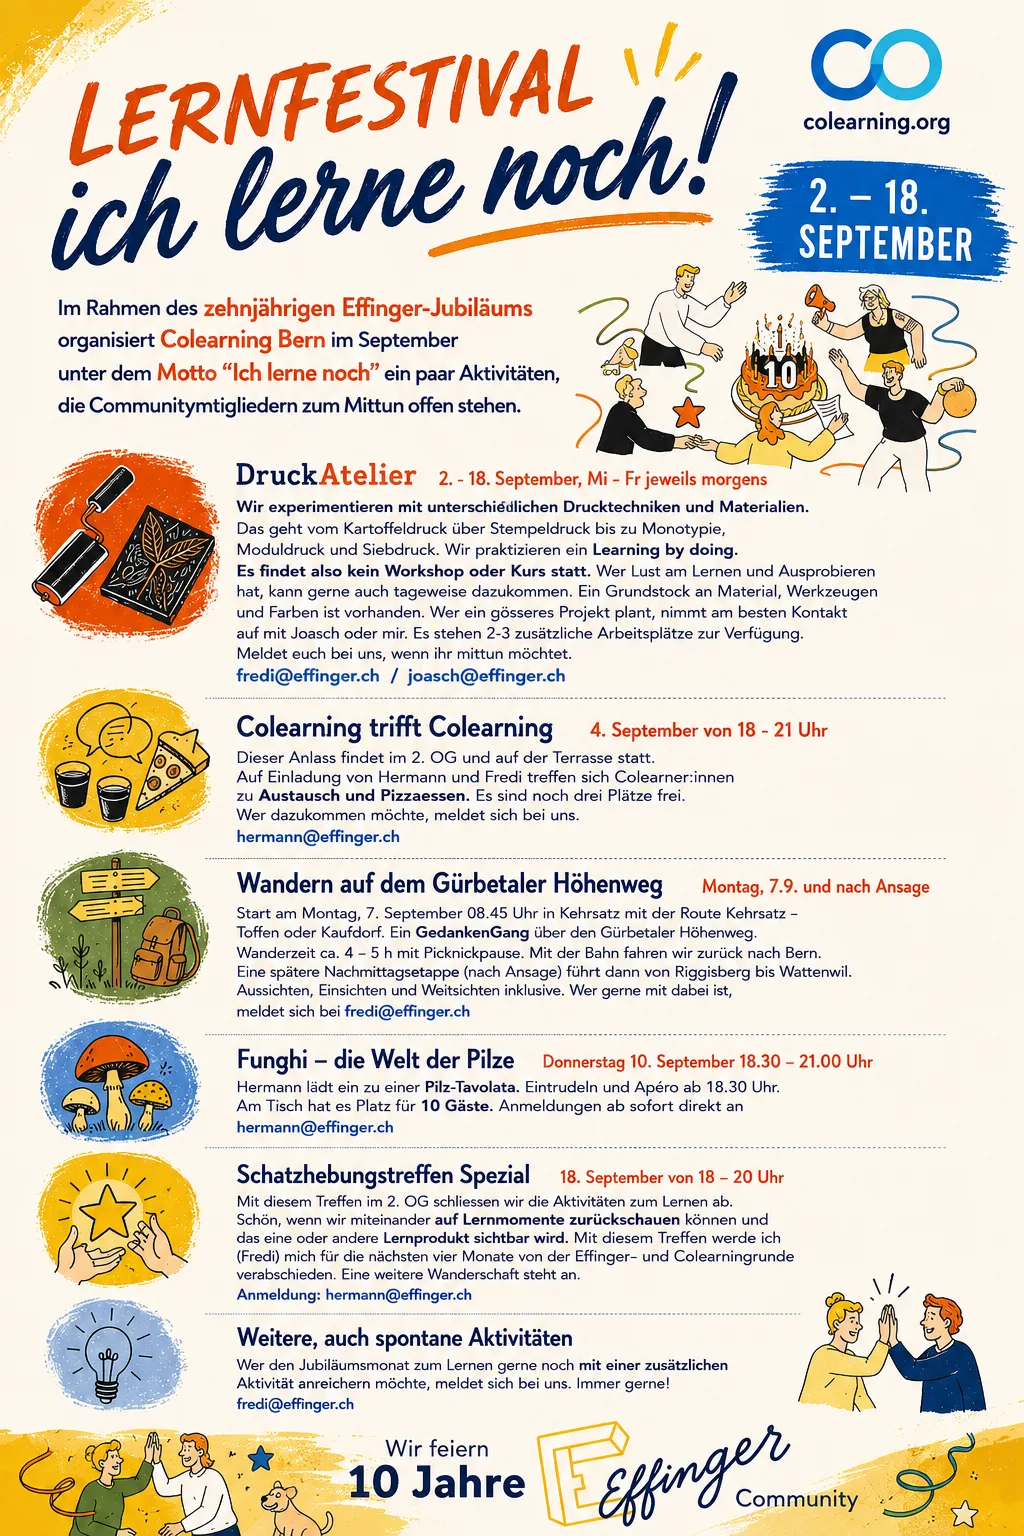
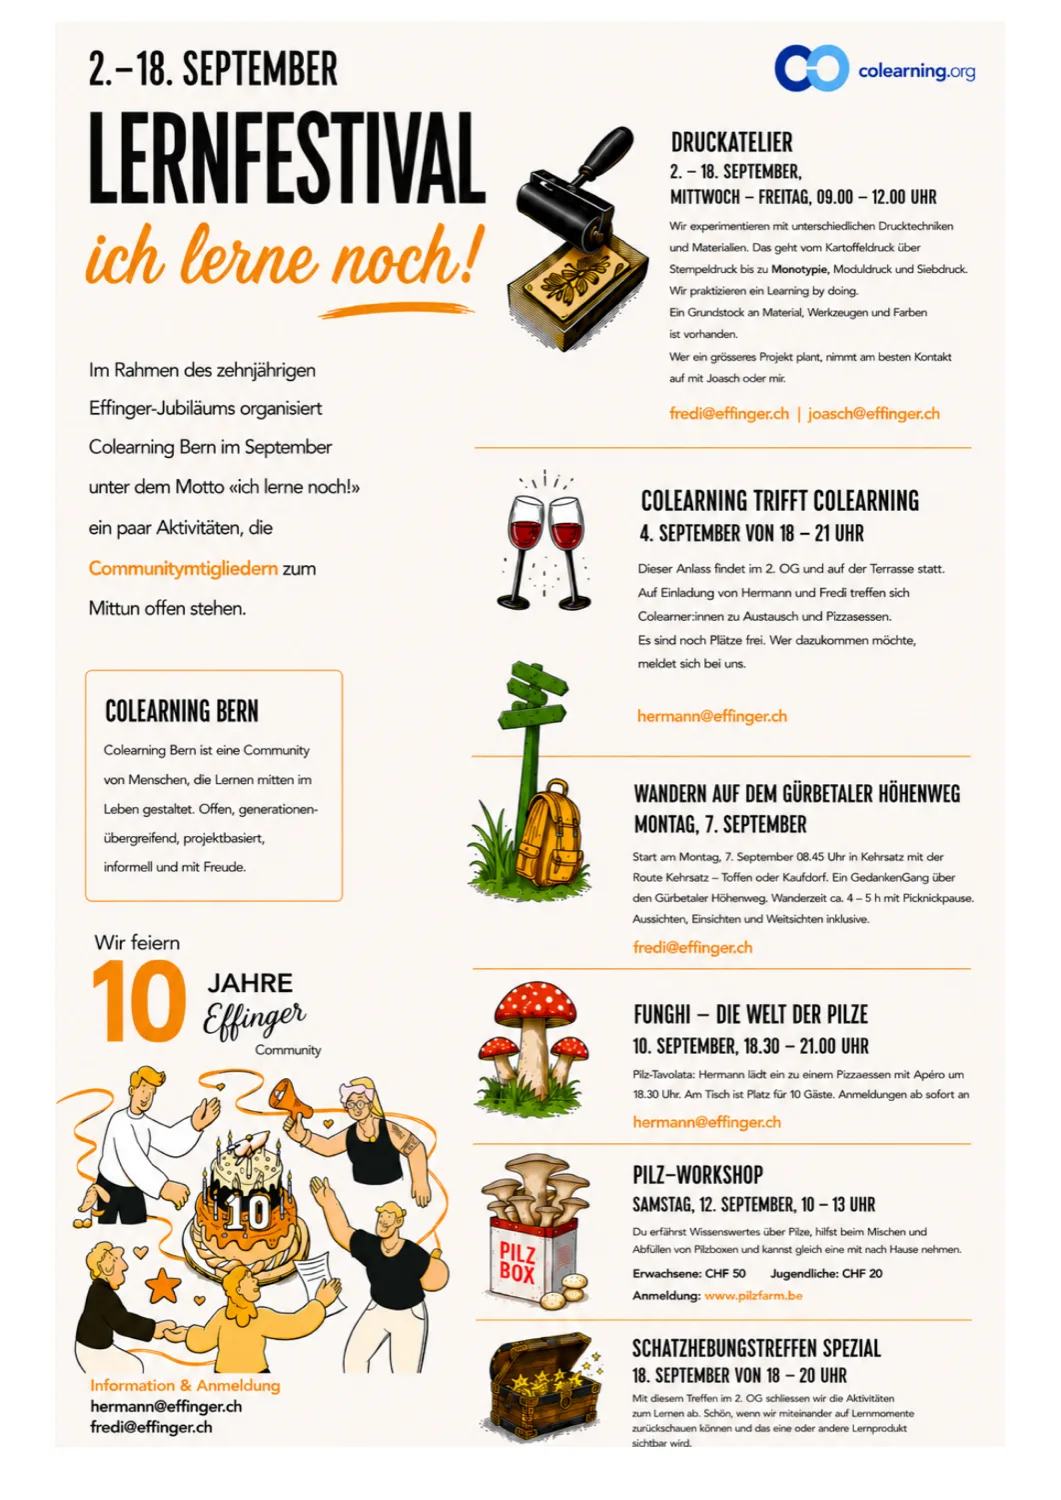
Lernfestival «Ich lerne noch!»: definitives Programm
Neuer Flyer und angepasste Zeiten/Texte gemäss definitiver Version:
DruckAtelier neu Mi–Fr 9–12 Uhr, Pilz-Workshop vom 12.9. ergänzt,
Schatzhebungstreffen Spezial 18–20 Uhr.

Claude-Session: https://claude.ai/code/session_01GiWwSsvWMJ4GS7w8kj6k7p

diff --git a/content/events/2026/202640.md b/content/events/2026/202640.md
@@ -2,7 +2,7 @@
 title = "Lernfestival «Ich lerne noch!»"
 event_id = 202640
 startdate = "2026-09-02T09:00:00"
-enddate = "2026-09-18T21:00:00"
+enddate = "2026-09-18T20:00:00"
 description = "Im Rahmen des zehnjährigen Effinger-Jubiläums organisiert Colearning Bern im September unter dem Motto «Ich lerne noch» Aktivitäten, die Communitymitgliedern zum Mittun offen stehen."
 image = "/upload/2026-09_lernfestival-ich-lerne-noch.webp"
 categories = ["Colearning", "Jubiläum"]
@@ -16,32 +16,37 @@ registration_max = ""
 
 Im Rahmen des zehnjährigen Effinger-Jubiläums organisiert Colearning Bern im September unter dem Motto **«Ich lerne noch»** ein paar Aktivitäten, die Communitymitgliedern zum Mittun offen stehen.
 
-### DruckAtelier — 2.–18. September, Mi–Fr jeweils morgens
+### DruckAtelier — 2.–18. September, Mittwoch–Freitag, 9.00–12.00 Uhr
 
-Wir experimentieren mit unterschiedlichen Drucktechniken und Materialien: vom Kartoffeldruck über Stempeldruck bis zu Monotypie, Moduldruck und Siebdruck. Wir praktizieren ein Learning by doing – es findet also kein Workshop oder Kurs statt. Wer Lust am Lernen und Ausprobieren hat, kann gerne auch tageweise dazukommen. Ein Grundstock an Material, Werkzeugen und Farben ist vorhanden. Wer ein grösseres Projekt plant, nimmt am besten Kontakt auf mit Joasch oder Fredi. Es stehen 2–3 zusätzliche Arbeitsplätze zur Verfügung.\
+Wir experimentieren mit unterschiedlichen Drucktechniken und Materialien. Das geht vom Kartoffeldruck über Stempeldruck bis zu Monotypie, Moduldruck und Siebdruck. Wir praktizieren ein Learning by doing. Ein Grundstock an Material, Werkzeugen und Farben ist vorhanden. Wer ein grösseres Projekt plant, nimmt am besten Kontakt auf mit Joasch oder Fredi.\
 Anmeldung: [fredi@effinger.ch](mailto:fredi@effinger.ch) / [joasch@effinger.ch](mailto:joasch@effinger.ch)
 
 ### Colearning trifft Colearning — 4. September, 18–21 Uhr
 
-Dieser Anlass findet im 2. OG und auf der Terrasse statt. Auf Einladung von Hermann und Fredi treffen sich Colearner:innen zu Austausch und Pizzaessen. Es sind noch drei Plätze frei.\
+Dieser Anlass findet im 2. OG und auf der Terrasse statt. Auf Einladung von Hermann und Fredi treffen sich Colearner:innen zu Austausch und Pizzaessen. Es sind noch Plätze frei. Wer dazukommen möchte, meldet sich bei uns.\
 Anmeldung: [hermann@effinger.ch](mailto:hermann@effinger.ch)
 
-### Wandern auf dem Gürbetaler Höhenweg — Montag, 7. September, und nach Ansage
+### Wandern auf dem Gürbetaler Höhenweg — Montag, 7. September
 
-Start am Montag, 7. September, 08.45 Uhr in Kehrsatz mit der Route Kehrsatz–Toffen oder Kaufdorf. Ein GedankenGang über den Gürbetaler Höhenweg. Wanderzeit ca. 4–5 h mit Picknickpause. Mit der Bahn fahren wir zurück nach Bern. Eine spätere Nachmittagsetappe (nach Ansage) führt dann von Riggisberg bis Wattenwil. Aussichten, Einsichten und Weitsichten inklusive.\
+Start am Montag, 7. September, 08.45 Uhr in Kehrsatz mit der Route Kehrsatz–Toffen oder Kaufdorf. Ein GedankenGang über den Gürbetaler Höhenweg. Wanderzeit ca. 4–5 h mit Picknickpause. Aussichten, Einsichten und Weitsichten inklusive.\
 Anmeldung: [fredi@effinger.ch](mailto:fredi@effinger.ch)
 
 ### Funghi – die Welt der Pilze — Donnerstag, 10. September, 18.30–21.00 Uhr
 
-Hermann lädt ein zu einer Pilz-Tavolata. Eintrudeln und Apéro ab 18.30 Uhr. Am Tisch hat es Platz für 10 Gäste.\
+Pilz-Tavolata: Hermann lädt ein zu einem Pizzaessen mit Apéro um 18.30 Uhr. Am Tisch ist Platz für 10 Gäste.\
 Anmeldung ab sofort direkt an [hermann@effinger.ch](mailto:hermann@effinger.ch)
 
-### Schatzhebungstreffen Spezial — 18. September, ab 18 Uhr
+### Pilz-Workshop — Samstag, 12. September, 10–13 Uhr
+
+Du erfährst Wissenswertes über Pilze, hilfst beim Mischen und Abfüllen von Pilzboxen und kannst gleich eine mit nach Hause nehmen. Erwachsene: CHF 50 / Jugendliche: CHF 20.\
+Alle Details: [Pilzworkshop Pilzfarm Bern](/events/2026/202641/)\
+Anmeldung: [www.pilzfarm.be](https://www.pilzfarm.be/)
+
+### Schatzhebungstreffen Spezial — 18. September, 18–20 Uhr
 
 Mit diesem Treffen im 2. OG schliessen wir die Aktivitäten zum Lernen ab. Schön, wenn wir miteinander auf Lernmomente zurückschauen können und das eine oder andere Lernprodukt sichtbar wird.\
 Anmeldung: [hermann@effinger.ch](mailto:hermann@effinger.ch)
 
-### Weitere, auch spontane Aktivitäten
+### Information & Anmeldung
 
-Wer den Jubiläumsmonat zum Lernen gerne noch mit einer zusätzlichen Aktivität anreichern möchte, meldet sich bei uns. Immer gerne!\
-[fredi@effinger.ch](mailto:fredi@effinger.ch)
+[hermann@effinger.ch](mailto:hermann@effinger.ch) / [fredi@effinger.ch](mailto:fredi@effinger.ch)
